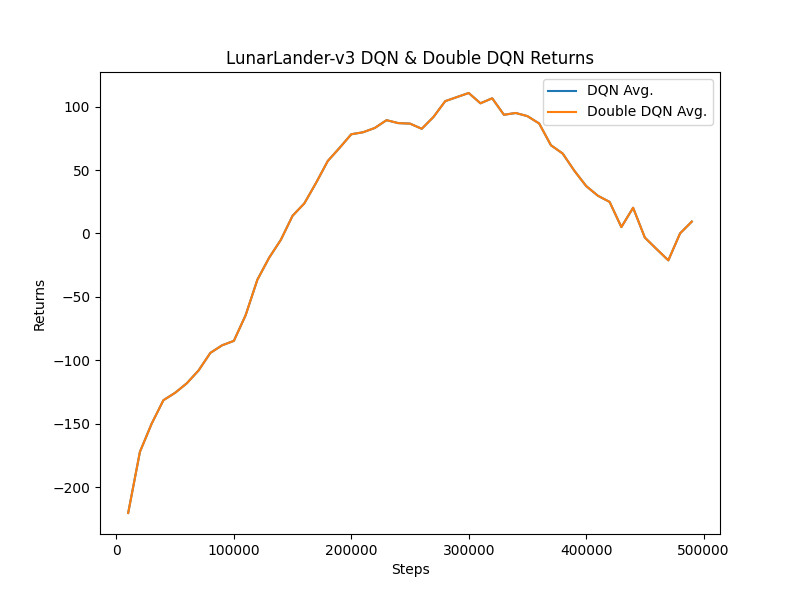
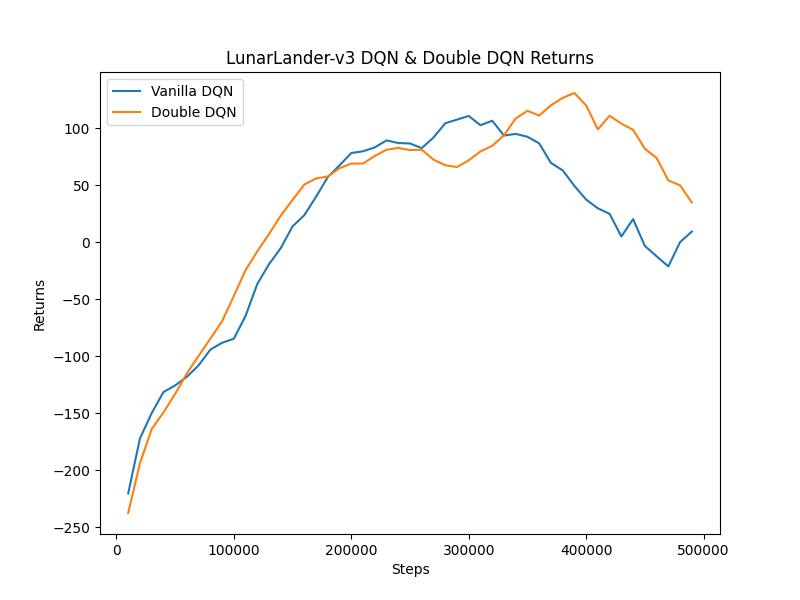
ddqn done

diff --git a/hw3/cs285/scripts/create_plots.py b/hw3/cs285/scripts/create_plots.py
@@ -43,20 +43,34 @@ def plot_data(x, list_of_y, list_of_labels, title, xlabel, ylabel, legend, outpu
 # plot_data(steps, [avg_returns, best_returns], ['Avg. Return', 'Best Return'],'MsPacman-v0 DQN Returns', 'Steps', 'Returns', True, 'q1_dqn.png')
 
 #Q2
-dqn_avg_returns, ddqn_avg_returns = [],[],
-for i in [1,2,3]: 
-    dqn_steps, dqn_avg, _ = read_data(f'q2_dqn_{i}')
-    _, ddqn_avg, _ = read_data(f'q2_doubledqn_{i}')
+# dqn_avg_returns, ddqn_avg_returns = [],[],
+# for i in [1,2,3]: 
+#     dqn_steps, dqn_avg, _ = read_data(f'q2_dqn_{i}')
+#     _, ddqn_avg, _ = read_data(f'q2_doubledqn_{i}')
 
-    dqn_avg_returns.append(dqn_avg)
-    ddqn_avg_returns.append(ddqn_avg)
+#     dqn_avg_returns.append(dqn_avg)
+#     ddqn_avg_returns.append(ddqn_avg)
 
-dqn_avg_avg = np.mean(np.array(dqn_avg_returns), axis = 0)
-ddqn_avg_avg = np.mean(np.array(dqn_avg_returns), axis = 0)
-
-
-plot_data(dqn_steps[1:], [dqn_avg_avg, ddqn_avg_avg], 
-['DQN Avg.', 'Double DQN Avg.'],
-'LunarLander-v3 DQN & Double DQN Returns', 'Steps', 'Returns', True, 'q2.png')
+# dqn_avg_avg = np.mean(np.array(dqn_avg_returns), axis = 0)
+# ddqn_avg_avg = np.mean(np.array(dqn_avg_returns), axis = 0)
 
 
+# plot_data(dqn_steps[1:], [dqn_avg_avg, ddqn_avg_avg], 
+# ['DQN Avg.', 'Double DQN Avg.'],
+# 'LunarLander-v3 DQN & Double DQN Returns', 'Steps', 'Returns', True, 'q2.png')
+
+steps, dqn_avg1, _ = read_data(f'q2_dqn_1')
+_, dqn_avg2, _ = read_data(f'q2_dqn_2')
+_, dqn_avg3, _ = read_data(f'q2_dqn_3')
+dqn_avg = np.mean(np.array([dqn_avg1,dqn_avg2,dqn_avg3]), axis = 0)
+
+steps, double_dqn_avg1, _ = read_data(f'q2_doubledqn_1')
+_, double_dqn_avg2, _ = read_data(f'q2_doubledqn_2')
+_, double_dqn_avg3, _ = read_data(f'q2_doubledqn_3')
+double_dqn_avg = np.mean(np.array([double_dqn_avg1,double_dqn_avg2,double_dqn_avg3]), axis = 0)
+
+plot_data(
+    steps[1:], 
+    [dqn_avg, double_dqn_avg],
+    ['Vanilla DQN', 'Double DQN'],
+    'LunarLander-v3 DQN & Double DQN Returns','Steps', 'Returns', True, 'q2.png')
